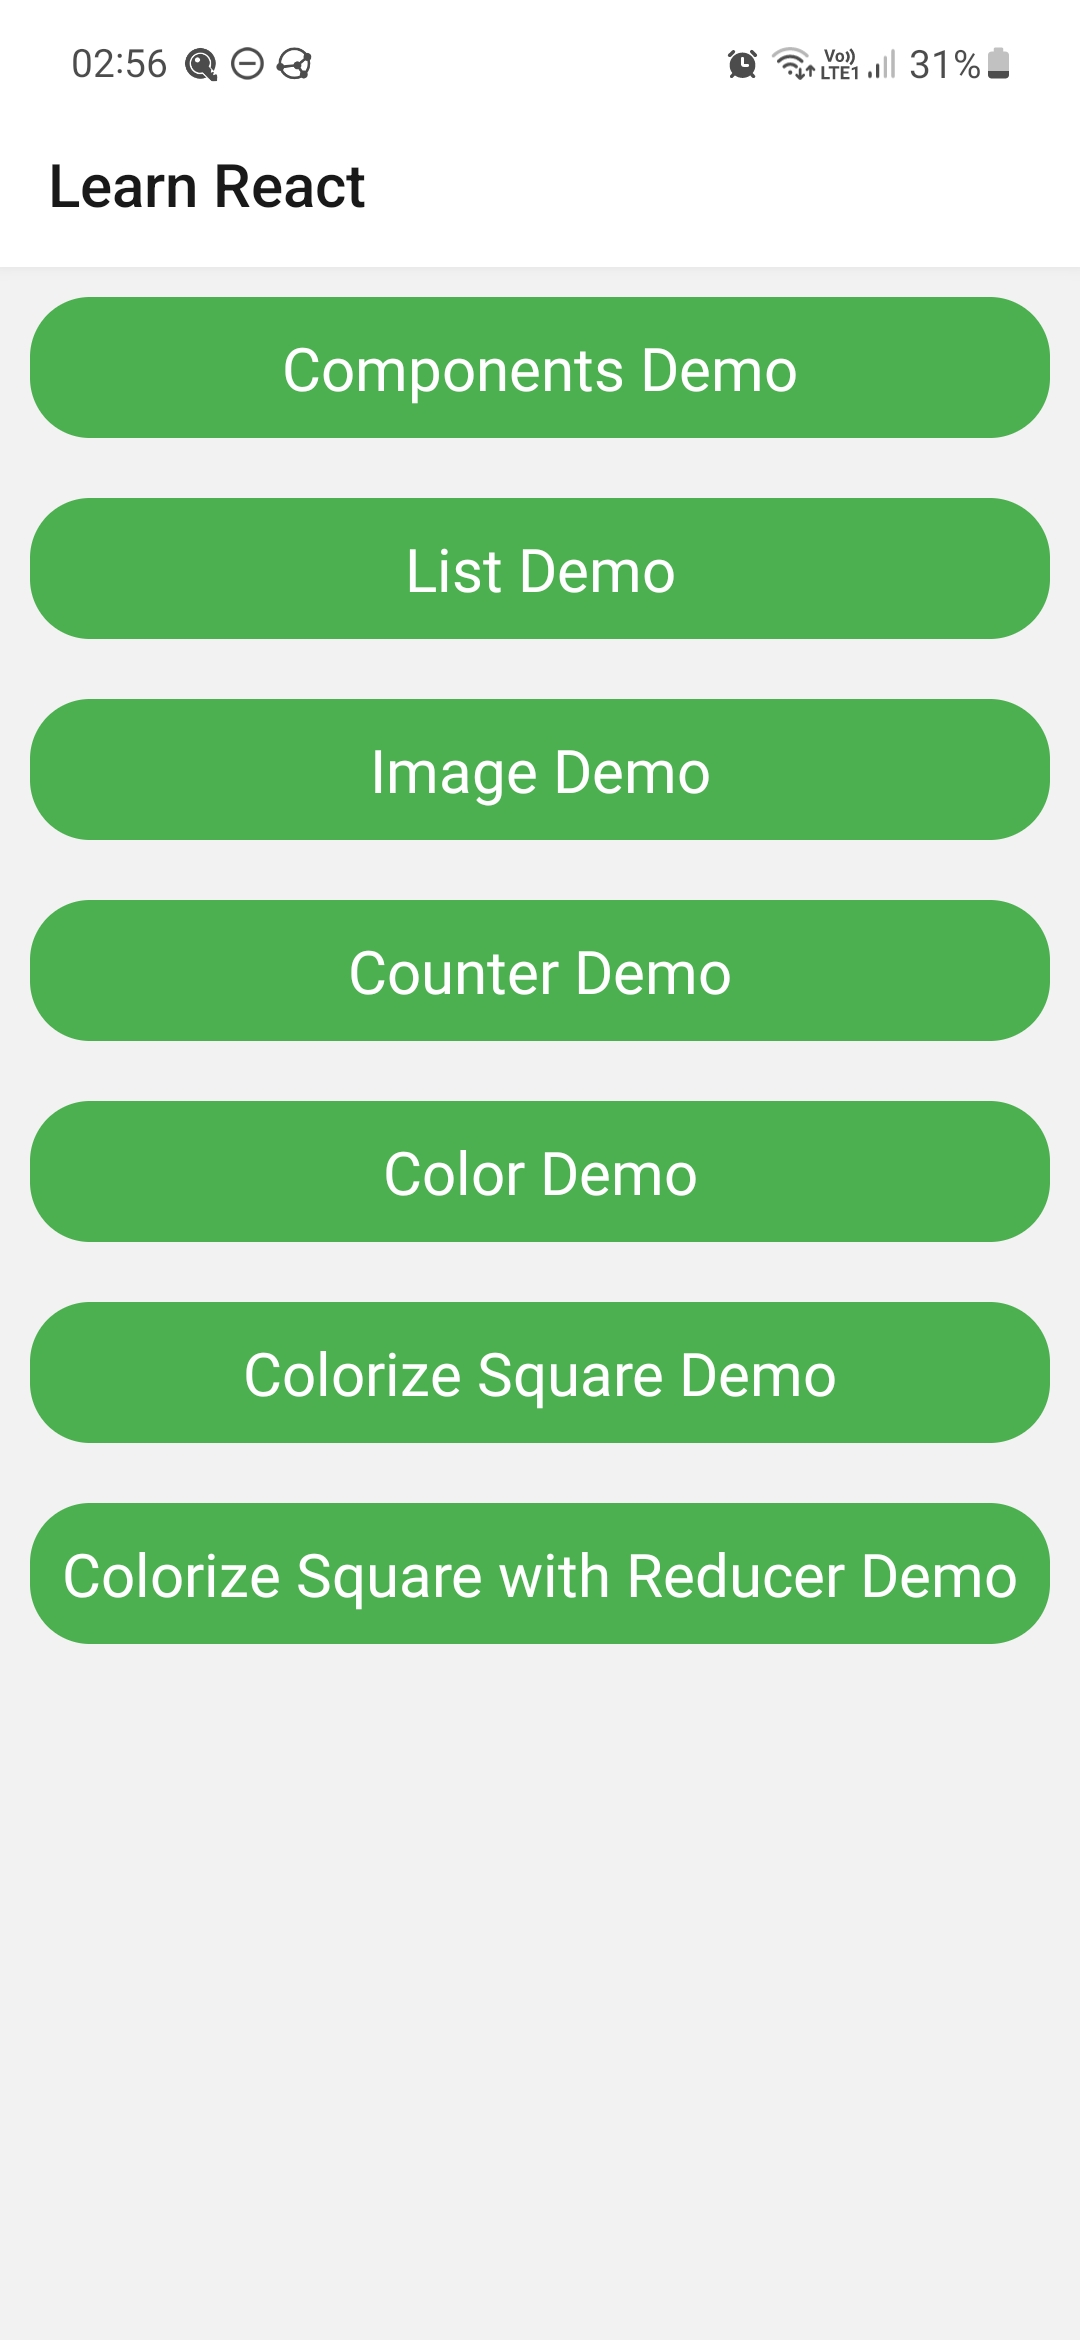
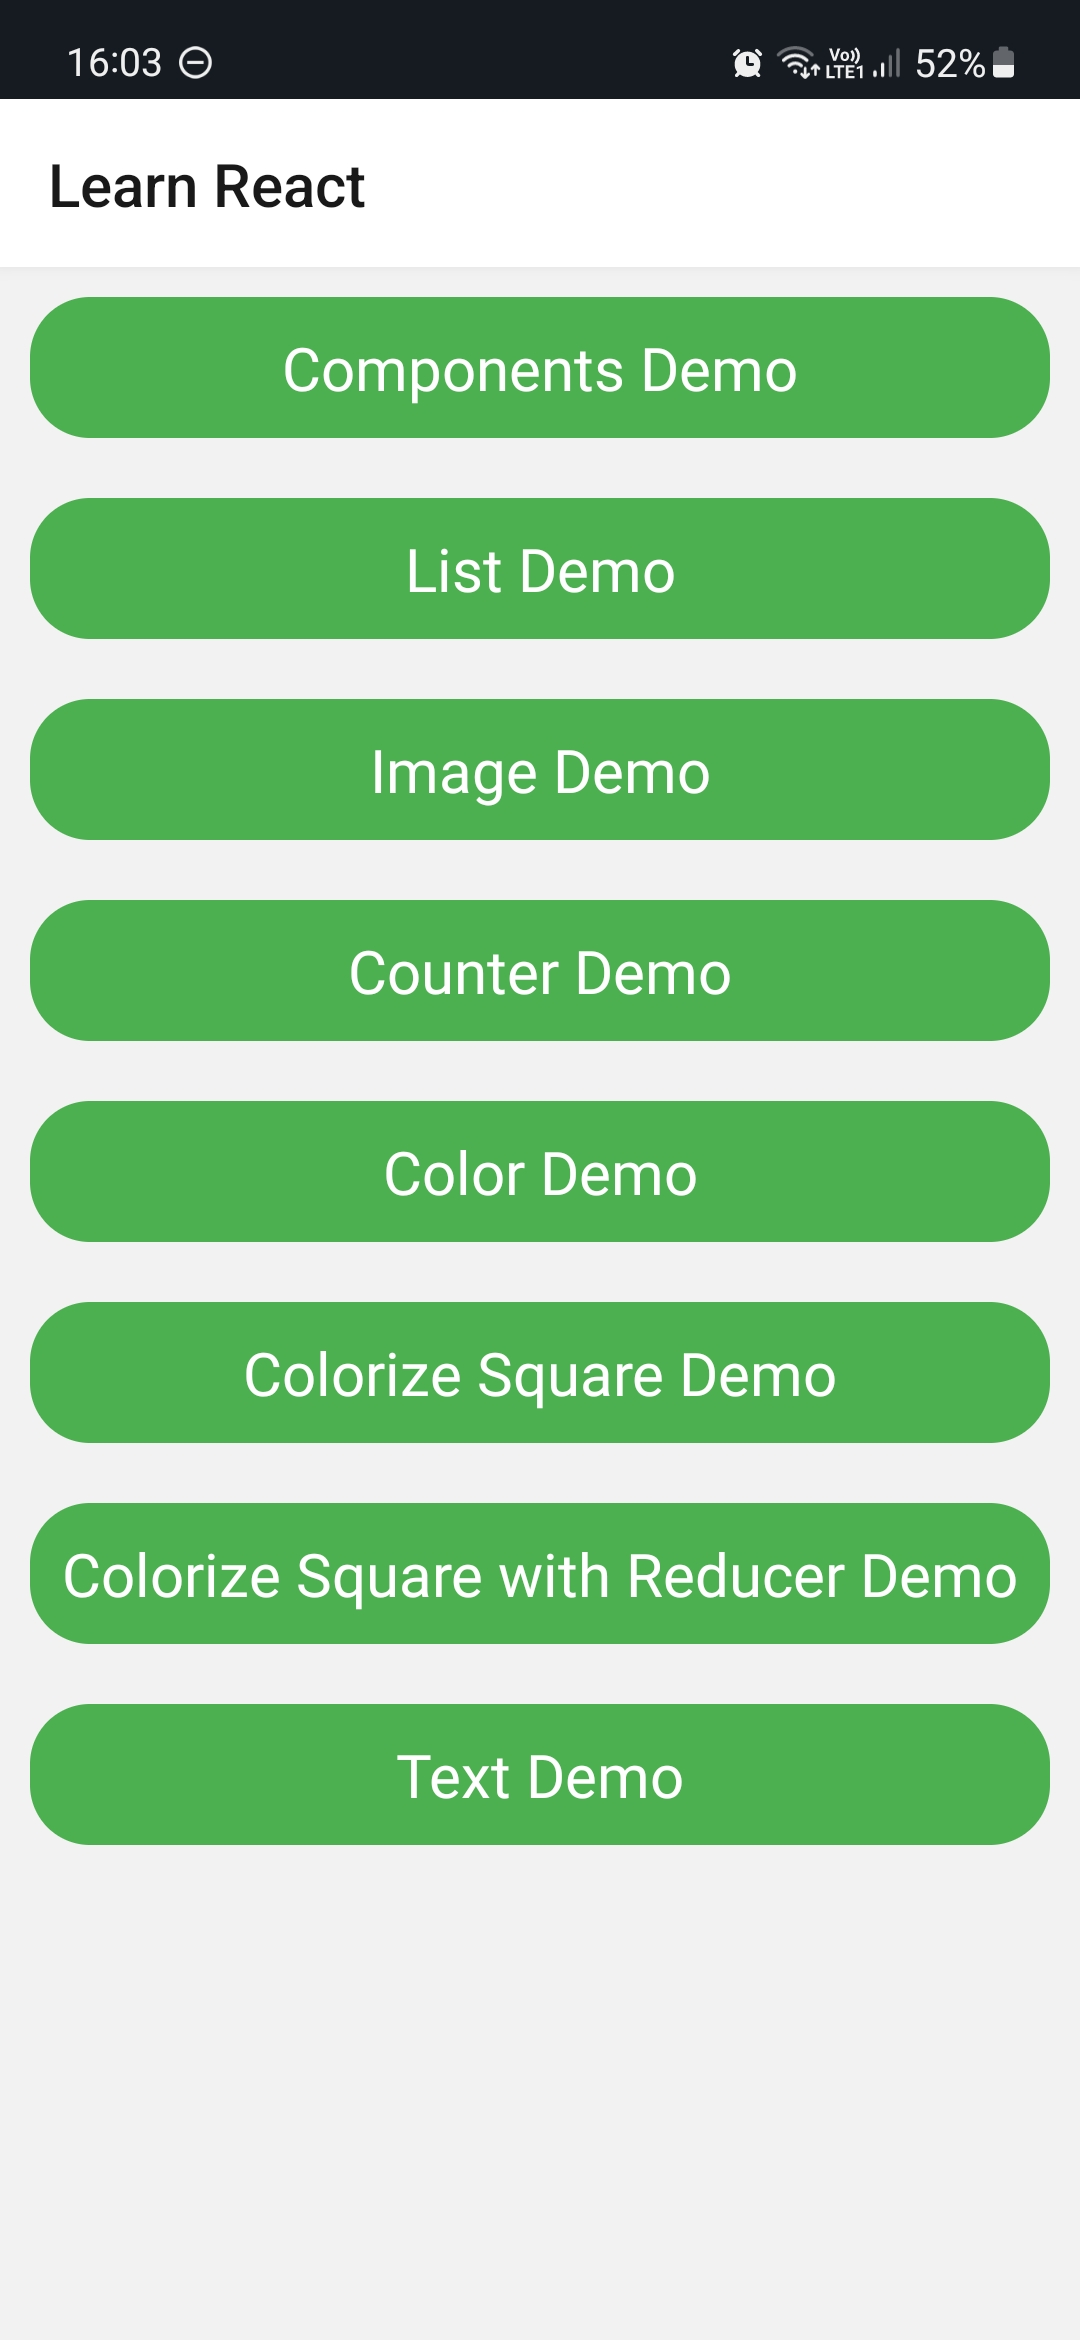
Update README and add screenshots

Changed region(s): [[0.0306, 0.7175, 0.9778, 0.8111], [0.0, 0.0, 1.0, 0.0624]]

diff --git a/README.md b/README.md
@@ -4,7 +4,7 @@ This repository is dedicated to tracking my progress and learning journey in mas
 
 ## Resources
 
-* [The Complete React Native + Hooks Course by Stephen Grider](https://www.udemy.com/course/the-complete-react-native-and-redux-course)  ![](https://geps.dev/progress/13?dangerColor=8BC34A&warningColor=8BC34A&successColor=8BC34A)
+* [The Complete React Native + Hooks Course by Stephen Grider](https://www.udemy.com/course/the-complete-react-native-and-redux-course)  ![](https://geps.dev/progress/15?dangerColor=8BC34A&warningColor=8BC34A&successColor=8BC34A)
 
 ## Screenshots
 
@@ -23,16 +23,16 @@ I will add new screenshots as I create new practice apps.
   <tr>
     <td><img src="screenshots/00-menu.jpg" alt="menu" width="150"></td>
     <td>
-    <img src="screenshots/01-list-screen-1.jpg" alt="list" width="150">
-    <img src="screenshots/01-list-screen-2.jpg" alt="list" width="150">
+    <img src="screenshots/01-list-screen-1.jpg" alt="list-1" width="150">
+    <img src="screenshots/01-list-screen-2.jpg" alt="list-2" width="150">
     </td>
     <td>
-    <img src="screenshots/02-image-screen-1.jpg" alt="list" width="150">
-    <img src="screenshots/02-image-screen-2.jpg" alt="list" width="150">
+    <img src="screenshots/02-image-screen-1.jpg" alt="image-1" width="150">
+    <img src="screenshots/02-image-screen-2.jpg" alt="image-2" width="150">
     </td>
     <td>
-    <img src="screenshots/03-counter-screen-1.jpg" alt="list" width="150">
-    <img src="screenshots/03-counter-screen-2.jpg" alt="list" width="150">
+    <img src="screenshots/03-counter-screen-1.jpg" alt="counter-1" width="150">
+    <img src="screenshots/03-counter-screen-2.jpg" alt="counter-2" width="150">
     </td>
   </tr>
 </tbody>
@@ -40,21 +40,24 @@ I will add new screenshots as I create new practice apps.
   <tr>
     <th>Color Generator</th>
     <th>Colorize Square</th>
-    <th>-</th>
+    <th>Text Screen</th>
     <th>-</th>
   </tr>
 </thead>
 <tbody>
   <tr>
     <td>
-    <img src="screenshots/04-color-generator-1.jpg" alt="list" width="150">
-    <img src="screenshots/04-color-generator-2.jpg" alt="list" width="150">
+    <img src="screenshots/04-color-generator-1.jpg" alt="colorgen-1" width="150">
+    <img src="screenshots/04-color-generator-2.jpg" alt="colorgen-2" width="150">
     </td>
     <td>
-    <img src="screenshots/05-colorize-square-1.jpg" alt="list" width="150">
-    <img src="screenshots/05-colorize-square-2.jpg" alt="list" width="150">
+    <img src="screenshots/05-colorize-square-1.jpg" alt="color2-1" width="150">
+    <img src="screenshots/05-colorize-square-2.jpg" alt="color2-2" width="150">
     </td>
-    <td>-</td>
+    <td>
+    <img src="screenshots/06-text-screen-1.jpg" alt="text-1" width="150">
+    <img src="screenshots/06-text-screen-2.jpg" alt="text-2" width="150">
+    </td>
     <td>-</td>
   </tr>
 </tbody>
